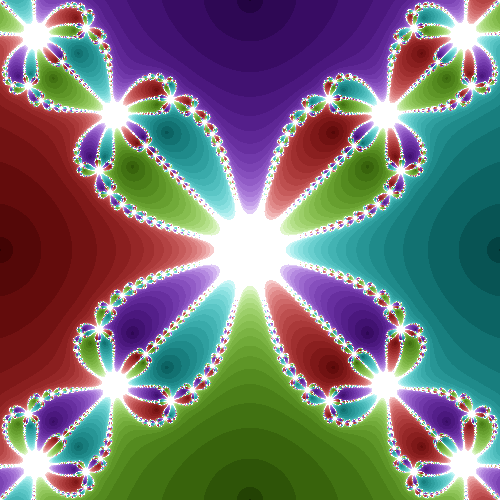
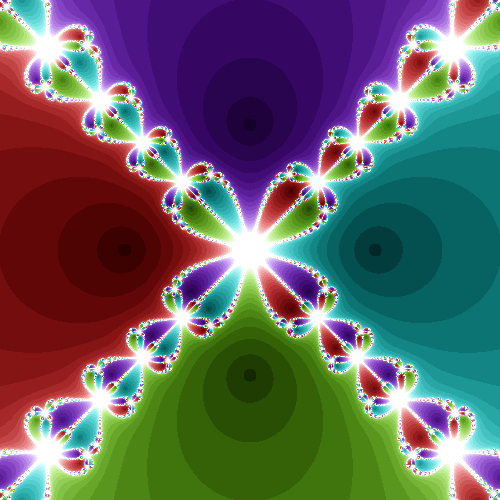
num1: programmieraufgabe korrigiert

diff --git a/abgabe/num1_13_4/fracfast.m b/abgabe/num1_13_4/fracfast.m
@@ -1,19 +1,20 @@
 clear;
 
 n = 500;
-minx = -1;
-maxx = 1;
-miny = -1;
-maxy = 1;
+minx = -2;
+maxx = 2;
+miny = -2;
+maxy = 2;
 kmax = 20;
 epstol = 10^-4;
 
 % Funktion und Newton-Iteration
-f = @(z) z.^4 - 1;
-iter = @(z) (3.*z + z.^-3)./4;
+m = 4 % m-te Einheitswurzeln als Nullstellen
+f = @(z) z.^m - 1;
+iter = @(z) ((m-1).*z + z.^-(m-1))./m;
 
 % Matrix mit Startwerten aufbauen
-Z = complex(meshgrid(minx:(maxx-minx)/(n-1):maxx), -meshgrid(minx:(maxx-minx)/(n-1):maxx)');
+Z = complex(meshgrid(minx:(maxx-minx)/(n-1):maxx), -meshgrid(miny:(maxy-miny)/(n-1):maxy)');
 im = zeros(n,n,3);
 im(:,:,3) = ones(n, n); % Weiß
 
@@ -27,12 +28,12 @@ while k <= kmax
 	mask = conv - conv_old; 
 
 	% Farbwert als Argument der komplexen Zahl
-	hue = conv .* ((arg(round(Z)) + pi) ./ (2*pi));
-	light = conv .* (k / kmax);
+	hue = conv .* ((arg(Z) + pi) ./ (2*pi));
+	light = conv .* (k / kmax) * (pi/2);
 
 	im(:,:,1) = hue;
-	im(:,:,2) = im(:,:,2) .* (1 - mask) + (1 - light).^(1/1.7) .* mask;
-	im(:,:,3) = im(:,:,3) .* (1 - mask) + (light).^(1/1.7) .* mask;
+	im(:,:,2) = im(:,:,2) .* (1 - mask) + cos(light) .* mask;
+	im(:,:,3) = im(:,:,3) .* (1 - mask) + sin(light) .* mask;
 
 	%imshow(hsv2rgb(im));
 	%drawnow();
